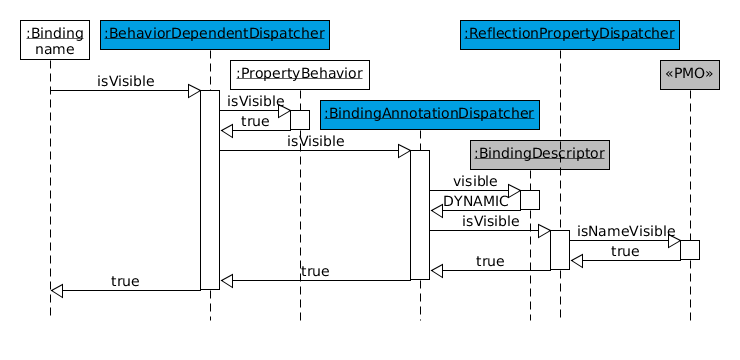
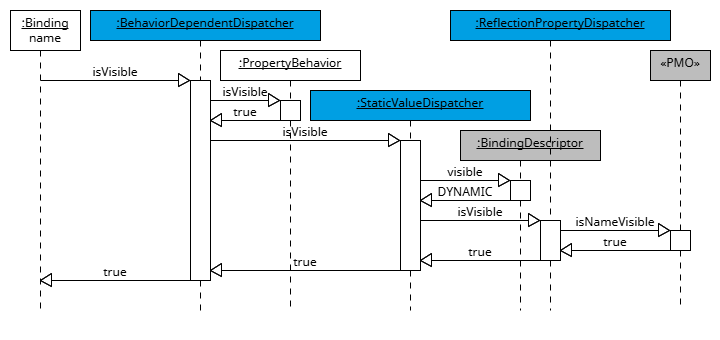
LIN-3189/LIN-4593 Correct class name to StaticValueDispatcher

Changed region(s): [[0.0, 0.0294, 0.9472, 0.8529], [0.6111, 0.0294, 1.0, 0.2647], [0.9167, 0.7941, 0.9472, 0.8235]]

diff --git a/core/src/main/java/org/linkki/core/binding/dispatcher/PropertyDispatcherFactory.java b/core/src/main/java/org/linkki/core/binding/dispatcher/PropertyDispatcherFactory.java
@@ -54,8 +54,8 @@ public class PropertyDispatcherFactory {
         String pmoPropertyName = boundProperty.getPmoProperty();
         ExceptionPropertyDispatcher exceptionDispatcher = newExceptionDispatcher(pmo, modelObjectName, pmoPropertyName);
         ReflectionPropertyDispatcher reflectionDispatcher = newReflectionDispatcher(pmo, pmoPropertyName, modelObjectName, modelPropertyName, exceptionDispatcher);
-        StaticValueDispatcher bindingAnnotationDispatcher = new StaticValueDispatcher(reflectionDispatcher);
-        PropertyDispatcher customDispatchers = createCustomDispatchers(pmo, boundProperty, bindingAnnotationDispatcher);
+        StaticValueDispatcher staticValueDispatcher = new StaticValueDispatcher(reflectionDispatcher);
+        PropertyDispatcher customDispatchers = createCustomDispatchers(pmo, boundProperty, staticValueDispatcher);
         return new BehaviorDependentDispatcher(customDispatchers, behaviorProvider);
         // @formatter:on
     }
